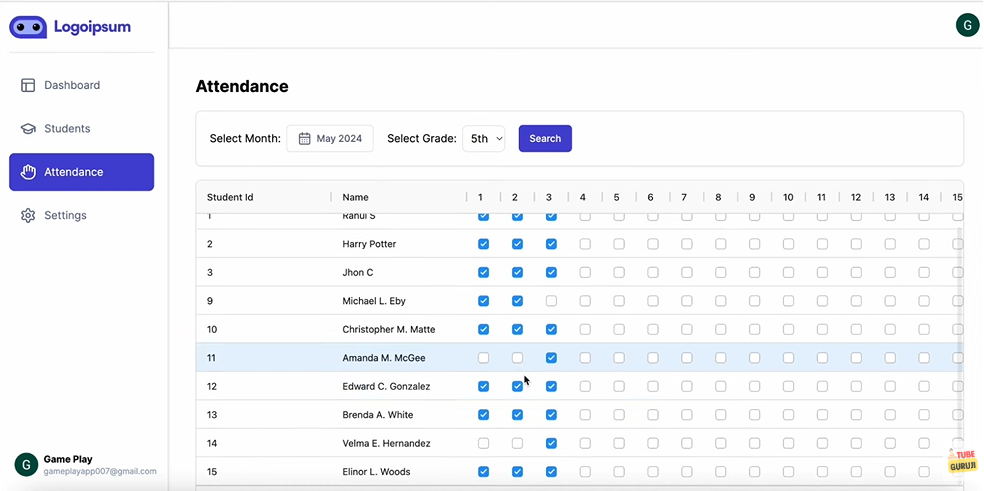
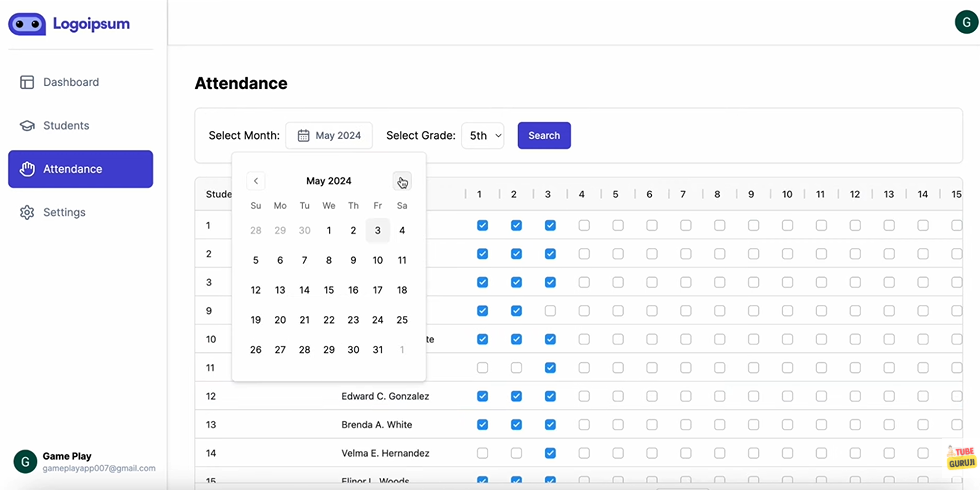
calendar design working

diff --git a/src/renderer/src/components/Calendar.jsx b/src/renderer/src/components/Calendar.jsx
@@ -1,0 +1,147 @@
+import { useState, useEffect } from 'react'
+import { IoChevronBackOutline, IoChevronForwardOutline, IoCopyOutline, IoCalendarOutline } from 'react-icons/io5'
+
+function Calendar({ value, onChange }) {
+  const [isOpen, setIsOpen] = useState(false)
+  const [currentMonth, setCurrentMonth] = useState(new Date())
+  const [selectedDate, setSelectedDate] = useState(value)
+
+  useEffect(() => {
+    setSelectedDate(value)
+  }, [value])
+
+  const days = ['Su', 'Mo', 'Tu', 'We', 'Th', 'Fr', 'Sa']
+  
+  const handlePrevMonth = () => {
+    setCurrentMonth(new Date(currentMonth.getFullYear(), currentMonth.getMonth() - 1))
+  }
+
+  const handleNextMonth = () => {
+    setCurrentMonth(new Date(currentMonth.getFullYear(), currentMonth.getMonth() + 1))
+  }
+
+  const handleCopyDate = () => {
+    navigator.clipboard.writeText(currentMonth.toLocaleDateString('en-US', { 
+      month: 'long', 
+      year: 'numeric' 
+    }))
+  }
+  
+  const renderCalendarDays = () => {
+    const firstDay = new Date(currentMonth.getFullYear(), currentMonth.getMonth(), 1)
+    const lastDay = new Date(currentMonth.getFullYear(), currentMonth.getMonth() + 1, 0)
+    
+    const days = []
+    const startPadding = firstDay.getDay()
+    
+    // Add padding days from previous month
+    for (let i = 0; i < startPadding; i++) {
+      const prevDate = new Date(firstDay)
+      prevDate.setDate(-i)
+      days.unshift(
+        <div key={`pad-${i}`} className="h-8 flex items-center justify-center text-gray-400 text-sm">
+          {prevDate.getDate()}
+        </div>
+      )
+    }
+    
+    // Add current month days
+    for (let i = 1; i <= lastDay.getDate(); i++) {
+      const currentDate = new Date(currentMonth.getFullYear(), currentMonth.getMonth(), i)
+      const isToday = currentDate.toDateString() === new Date().toDateString()
+      const isSelected = currentDate.toDateString() === selectedDate.toDateString()
+      
+      days.push(
+        <div 
+          key={i}
+          className="h-8 relative flex items-center justify-center"
+        >
+          <button
+            onClick={() => {
+              setSelectedDate(currentDate)
+              onChange(currentDate)
+              setIsOpen(false)
+            }}
+            className={`
+              w-8 h-8 flex items-center justify-center rounded-full relative
+              hover:bg-gray-100 transition-colors
+              ${isSelected ? 'bg-indigo-600 text-white hover:bg-indigo-700' : 'text-gray-900'}
+              ${isToday && !isSelected ? 'text-indigo-600 font-semibold' : ''}
+            `}
+          >
+            {i}
+          </button>
+        </div>
+      )
+    }
+    
+    // Add padding days for next month
+    const totalDays = days.length
+    const remainingDays = 42 - totalDays
+    
+    for (let i = 1; i <= remainingDays; i++) {
+      days.push(
+        <div key={`next-${i}`} className="h-8 flex items-center justify-center text-gray-400 text-sm">
+          {i}
+        </div>
+      )
+    }
+    
+    return days
+  }
+
+  return (
+    <div className="relative">
+      <button
+        onClick={() => setIsOpen(!isOpen)}
+        className="h-10 px-4 border rounded-lg flex items-center gap-2 bg-white hover:bg-gray-50 transition-colors"
+      >
+        <IoCalendarOutline className="w-4 h-4 text-gray-500" />
+        <span className="text-sm text-gray-900">
+          {selectedDate.toLocaleDateString('en-US', { month: 'long', year: 'numeric' })}
+        </span>
+      </button>
+
+      {isOpen && (
+        <div className="absolute top-full mt-1 bg-white rounded-lg shadow-lg border p-4 z-50 w-[280px]">
+          <div className="flex justify-between items-center mb-4">
+            <button 
+              onClick={handlePrevMonth}
+              className="w-8 h-8 flex items-center justify-center rounded-full hover:bg-gray-100 text-gray-600 transition-colors"
+            >
+              <IoChevronBackOutline className="w-5 h-5" />
+            </button>
+            <div className="flex items-center gap-2">
+              <span className="text-sm font-medium text-gray-900">
+                {currentMonth.toLocaleDateString('en-US', { month: 'long', year: 'numeric' })}
+              </span>
+              <button 
+                onClick={handleCopyDate}
+                className="w-8 h-8 flex items-center justify-center rounded-full hover:bg-gray-100 text-gray-600 transition-colors"
+              >
+                <IoCopyOutline className="w-4 h-4" />
+              </button>
+            </div>
+            <button 
+              onClick={handleNextMonth}
+              className="w-8 h-8 flex items-center justify-center rounded-full hover:bg-gray-100 text-gray-600 transition-colors"
+            >
+              <IoChevronForwardOutline className="w-5 h-5" />
+            </button>
+          </div>
+
+          <div className="grid grid-cols-7 gap-0">
+            {days.map(day => (
+              <div key={day} className="h-8 flex items-center justify-center text-xs text-gray-500 font-medium">
+                {day}
+              </div>
+            ))}
+            {renderCalendarDays()}
+          </div>
+        </div>
+      )}
+    </div>
+  )
+}
+
+export default Calendar 

diff --git a/src/renderer/src/pages/attendance.jsx b/src/renderer/src/pages/attendance.jsx
@@ -1,7 +1,8 @@
 import { useState } from 'react'
+import Calendar from '../components/Calendar'
 
 function Attendance() {
-  const [selectedMonth, setSelectedMonth] = useState('May 2024')
+  const [selectedDate, setSelectedDate] = useState(new Date())
   const [selectedGrade, setSelectedGrade] = useState('5th')
   const [students] = useState([
     { id: 1, name: 'Rahul S', attendance: [true, true, true] },
@@ -20,54 +21,64 @@ function Attendance() {
     <div className="space-y-6">
       <h1 className="text-2xl font-bold">Attendance</h1>
 
-      <div className="bg-white p-6 rounded-lg shadow">
+      <div className="bg-white p-6 rounded-xl shadow">
         <div className="flex gap-4 mb-6">
           <div className="flex items-center gap-2">
-            <span>Select Month:</span>
-            <input type="month" value="2024-05" className="px-4 py-2 border rounded-lg" />
+            <span className="text-gray-600">Select Month:</span>
+            <div className="w-[200px]">
+              <Calendar 
+                value={selectedDate}
+                onChange={(date) => {
+                  setSelectedDate(date)
+                  // Here you would typically fetch attendance data for the new date
+                }}
+              />
+            </div>
           </div>
           <div className="flex items-center gap-2">
-            <span>Select Grade:</span>
+            <span className="text-gray-600">Select Grade:</span>
             <select value={selectedGrade} className="px-4 py-2 border rounded-lg">
               <option>5th</option>
             </select>
           </div>
-          <button className="bg-indigo-600 text-white px-4 py-2 rounded-lg hover:bg-indigo-700">
+          <button className="bg-indigo-600 text-white px-6 py-2 rounded-lg hover:bg-indigo-700">
             Search
           </button>
         </div>
 
-        <table className="w-full">
-          <thead className="bg-gray-50 border-y">
-            <tr>
-              <th className="text-left p-4">Student Id</th>
-              <th className="text-left p-4">Name</th>
-              {[1, 2, 3, 4, 5, 6, 7, 8, 9, 10, 11, 12, 13, 14, 15].map((day) => (
-                <th key={day} className="text-center p-4">
-                  {day}
-                </th>
-              ))}
-            </tr>
-          </thead>
-          <tbody>
-            {students.map((student) => (
-              <tr key={student.id} className="border-b">
-                <td className="p-4">{student.id}</td>
-                <td className="p-4">{student.name}</td>
-                {[...student.attendance, ...Array(12).fill(null)].map((present, idx) => (
-                  <td key={idx} className="text-center p-4">
-                    <input
-                      type="checkbox"
-                      checked={present || false}
-                      className="h-4 w-4 text-indigo-600 rounded"
-                      onChange={() => {}}
-                    />
-                  </td>
+        <div className="overflow-x-auto">
+          <table className="w-full">
+            <thead className="bg-gray-50">
+              <tr>
+                <th className="text-left p-4 font-medium text-gray-600">Student Id</th>
+                <th className="text-left p-4 font-medium text-gray-600">Name</th>
+                {[...Array(15)].map((_, idx) => (
+                  <th key={idx} className="text-center p-4 font-medium text-gray-600">
+                    {idx + 1}
+                  </th>
                 ))}
               </tr>
-            ))}
-          </tbody>
-        </table>
+            </thead>
+            <tbody>
+              {students.map((student) => (
+                <tr key={student.id} className="border-t">
+                  <td className="p-4 text-gray-900">{student.id}</td>
+                  <td className="p-4 text-gray-900">{student.name}</td>
+                  {[...student.attendance, ...Array(12).fill(null)].map((present, idx) => (
+                    <td key={idx} className="text-center p-4">
+                      <input
+                        type="checkbox"
+                        checked={present || false}
+                        className="h-5 w-5 rounded border-gray-300 text-indigo-600 focus:ring-indigo-500"
+                        onChange={() => {}}
+                      />
+                    </td>
+                  ))}
+                </tr>
+              ))}
+            </tbody>
+          </table>
+        </div>
       </div>
     </div>
   )

diff --git a/src/renderer/src/pages/dashboard.jsx b/src/renderer/src/pages/dashboard.jsx
@@ -2,9 +2,10 @@ import { useState } from 'react'
 import { BarChart, Bar, XAxis, YAxis, CartesianGrid, PieChart, Pie, Cell } from 'recharts'
 import { PiStudentBold } from 'react-icons/pi'
 import { IoCheckmarkCircle, IoCloseCircle } from 'react-icons/io5'
+import Calendar from '../components/Calendar'
 
 function Dashboard() {
-  const [selectedMonth, setSelectedMonth] = useState('May 2024')
+  const [selectedDate, setSelectedDate] = useState(new Date())
   const [selectedGrade, setSelectedGrade] = useState('5th')
 
   const stats = {
@@ -31,13 +32,15 @@ function Dashboard() {
       <div className="flex items-center justify-between">
         <h1 className="text-2xl font-bold">Dashboard</h1>
         <div className="flex items-center gap-4">
-          <select
-            value={selectedMonth}
-            onChange={(e) => setSelectedMonth(e.target.value)}
-            className="px-4 py-2 border rounded-lg"
-          >
-            <option>May 2024</option>
-          </select>
+          <div className="w-[200px]">
+            <Calendar 
+              value={selectedDate}
+              onChange={(date) => {
+                setSelectedDate(date)
+                // Here you would typically fetch dashboard data for the new date
+              }}
+            />
+          </div>
           <select
             value={selectedGrade}
             onChange={(e) => setSelectedGrade(e.target.value)}
@@ -49,19 +52,23 @@ function Dashboard() {
       </div>
 
       <div className="grid grid-cols-3 gap-6">
-        <div className="bg-blue-100 p-6 rounded-lg">
+        <div className="bg-blue-50 p-6 rounded-xl">
           <div className="flex items-center gap-3">
-            <PiStudentBold className="text-2xl" />
+            <div className="bg-white p-2 rounded-lg">
+              <PiStudentBold className="text-2xl text-blue-600" />
+            </div>
             <div>
-              <div className="text-sm text-gray-600">Total Students</div>
+              <div className="text-sm text-gray-600">Total Student</div>
               <div className="text-2xl font-bold">{stats.totalStudents}</div>
             </div>
           </div>
         </div>
 
-        <div className="bg-blue-100 p-6 rounded-lg">
+        <div className="bg-blue-50 p-6 rounded-xl">
           <div className="flex items-center gap-3">
-            <IoCheckmarkCircle className="text-2xl" />
+            <div className="bg-white p-2 rounded-lg">
+              <IoCheckmarkCircle className="text-2xl text-green-600" />
+            </div>
             <div>
               <div className="text-sm text-gray-600">Total Present</div>
               <div className="text-2xl font-bold">{stats.presentPercentage}%</div>
@@ -69,9 +76,11 @@ function Dashboard() {
           </div>
         </div>
 
-        <div className="bg-blue-100 p-6 rounded-lg">
+        <div className="bg-blue-50 p-6 rounded-xl">
           <div className="flex items-center gap-3">
-            <IoCloseCircle className="text-2xl" />
+            <div className="bg-white p-2 rounded-lg">
+              <IoCloseCircle className="text-2xl text-red-600" />
+            </div>
             <div>
               <div className="text-sm text-gray-600">Total Absent</div>
               <div className="text-2xl font-bold">{stats.absentPercentage}%</div>
